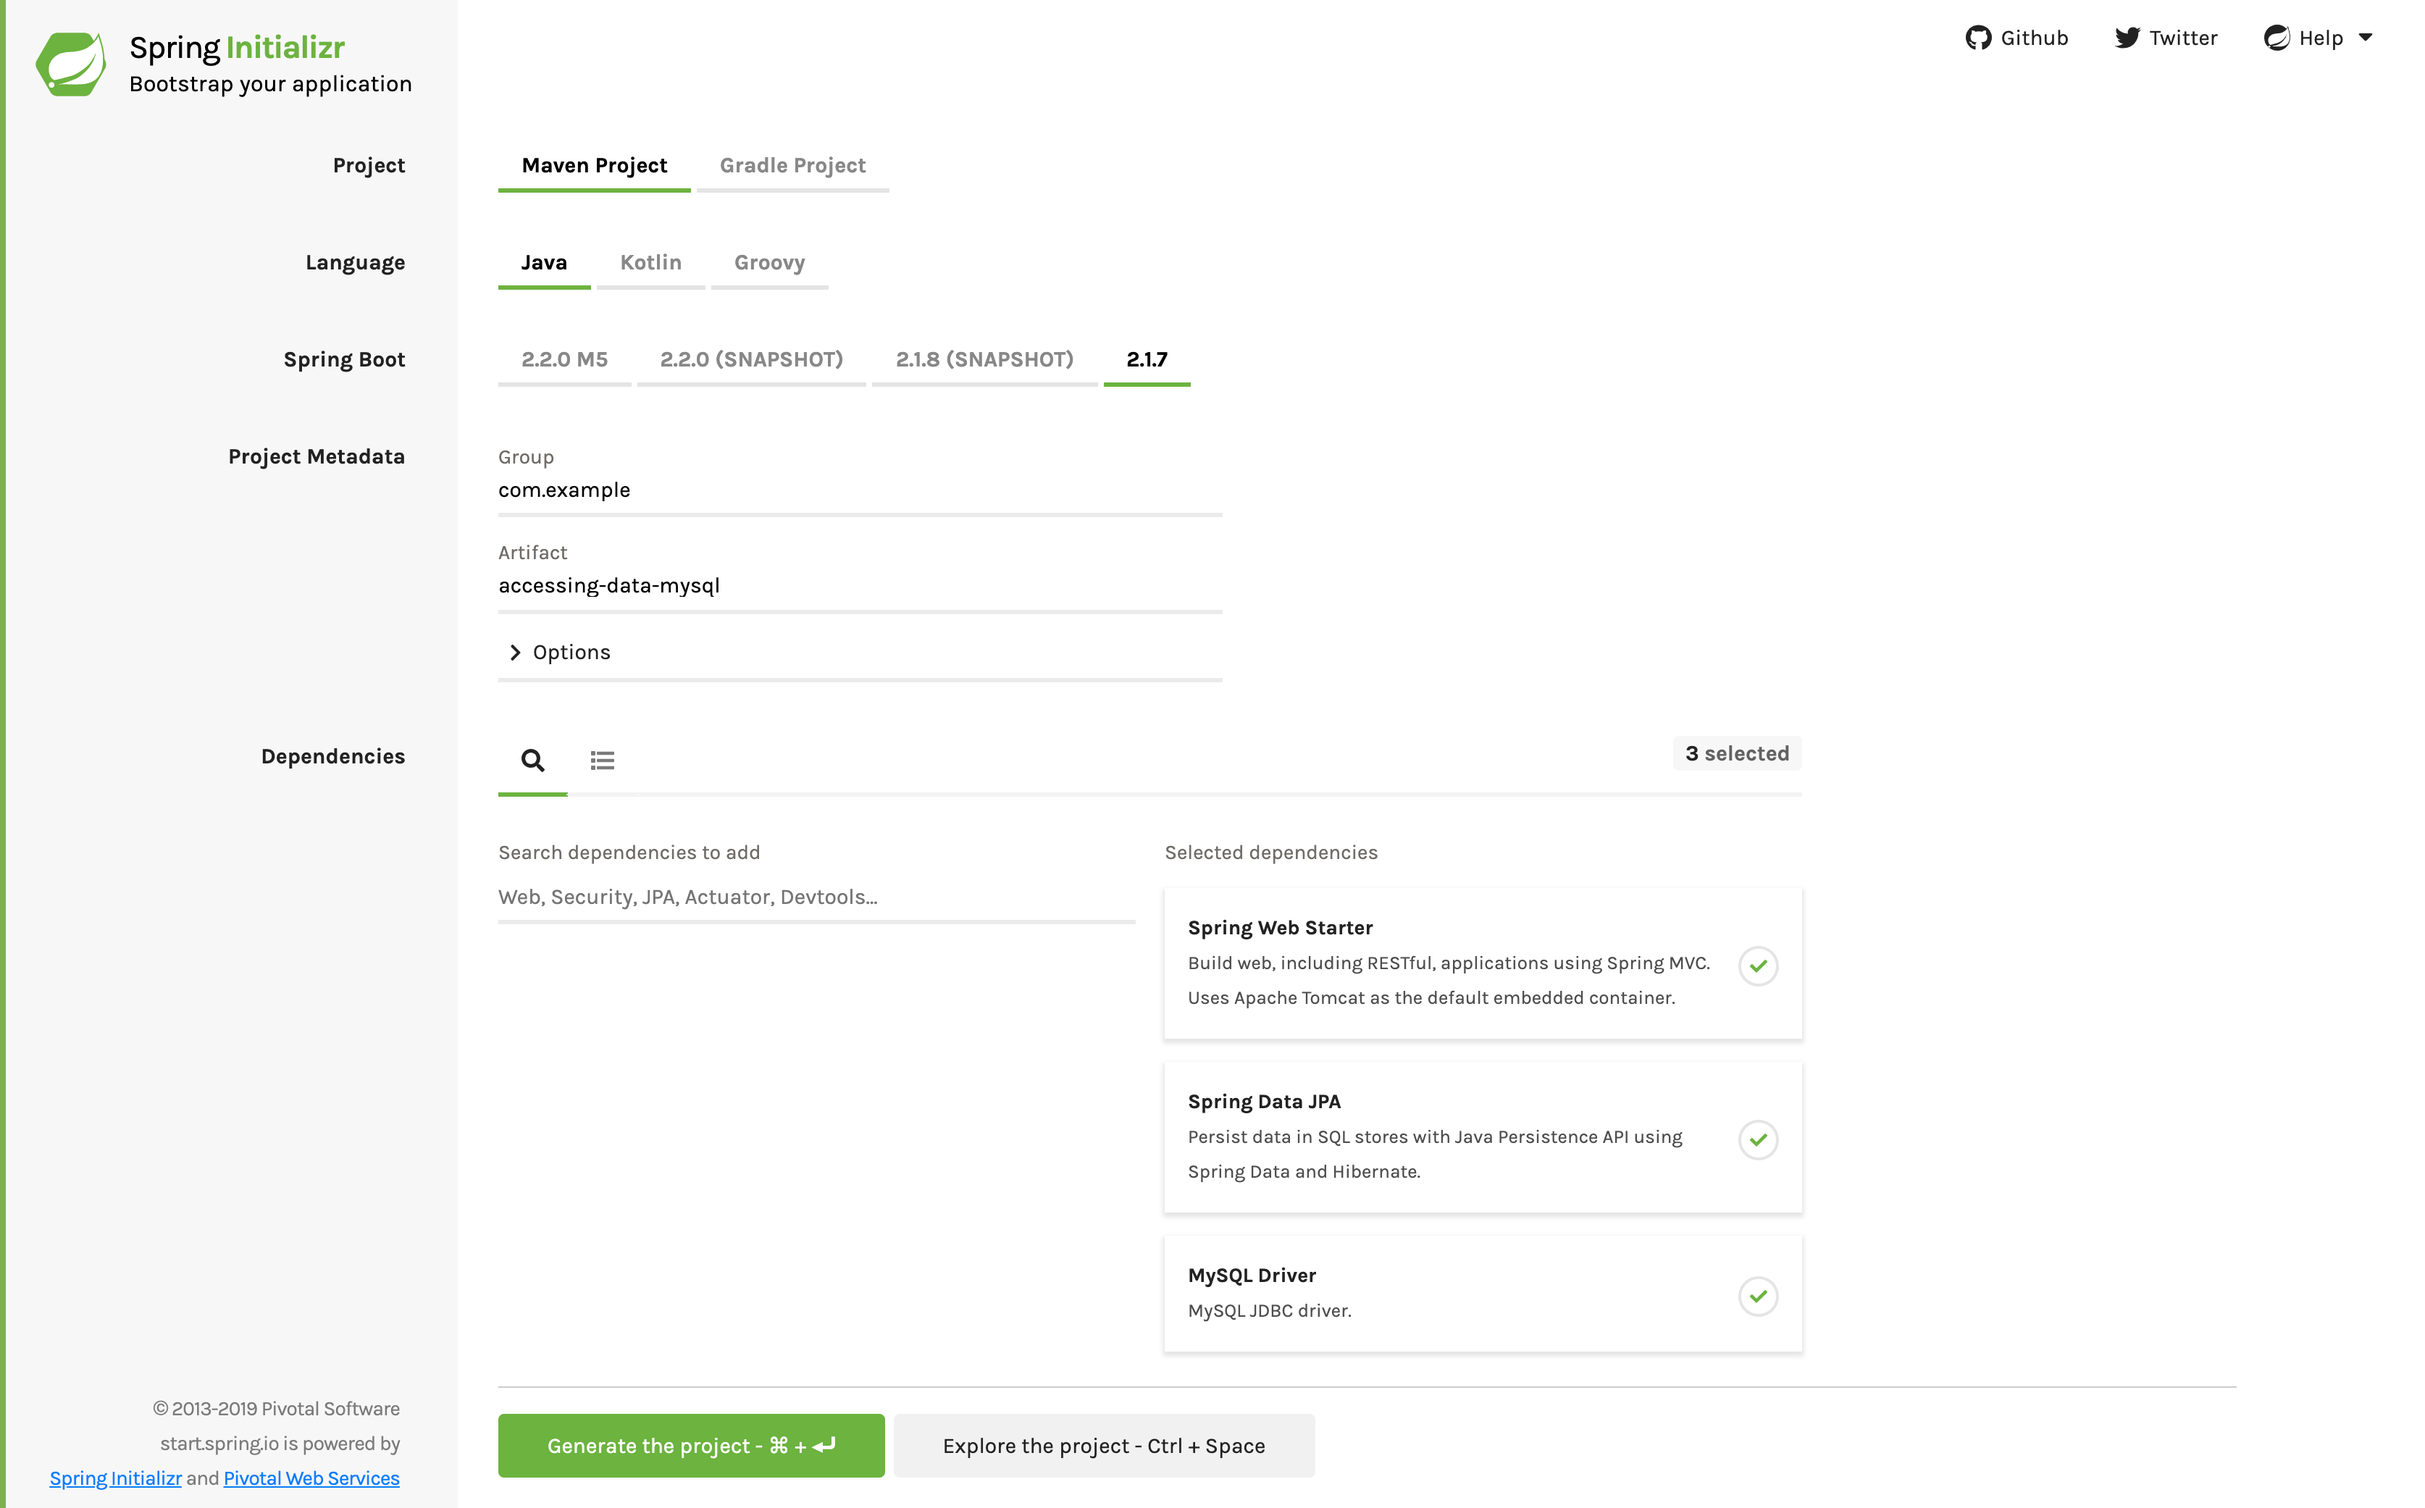
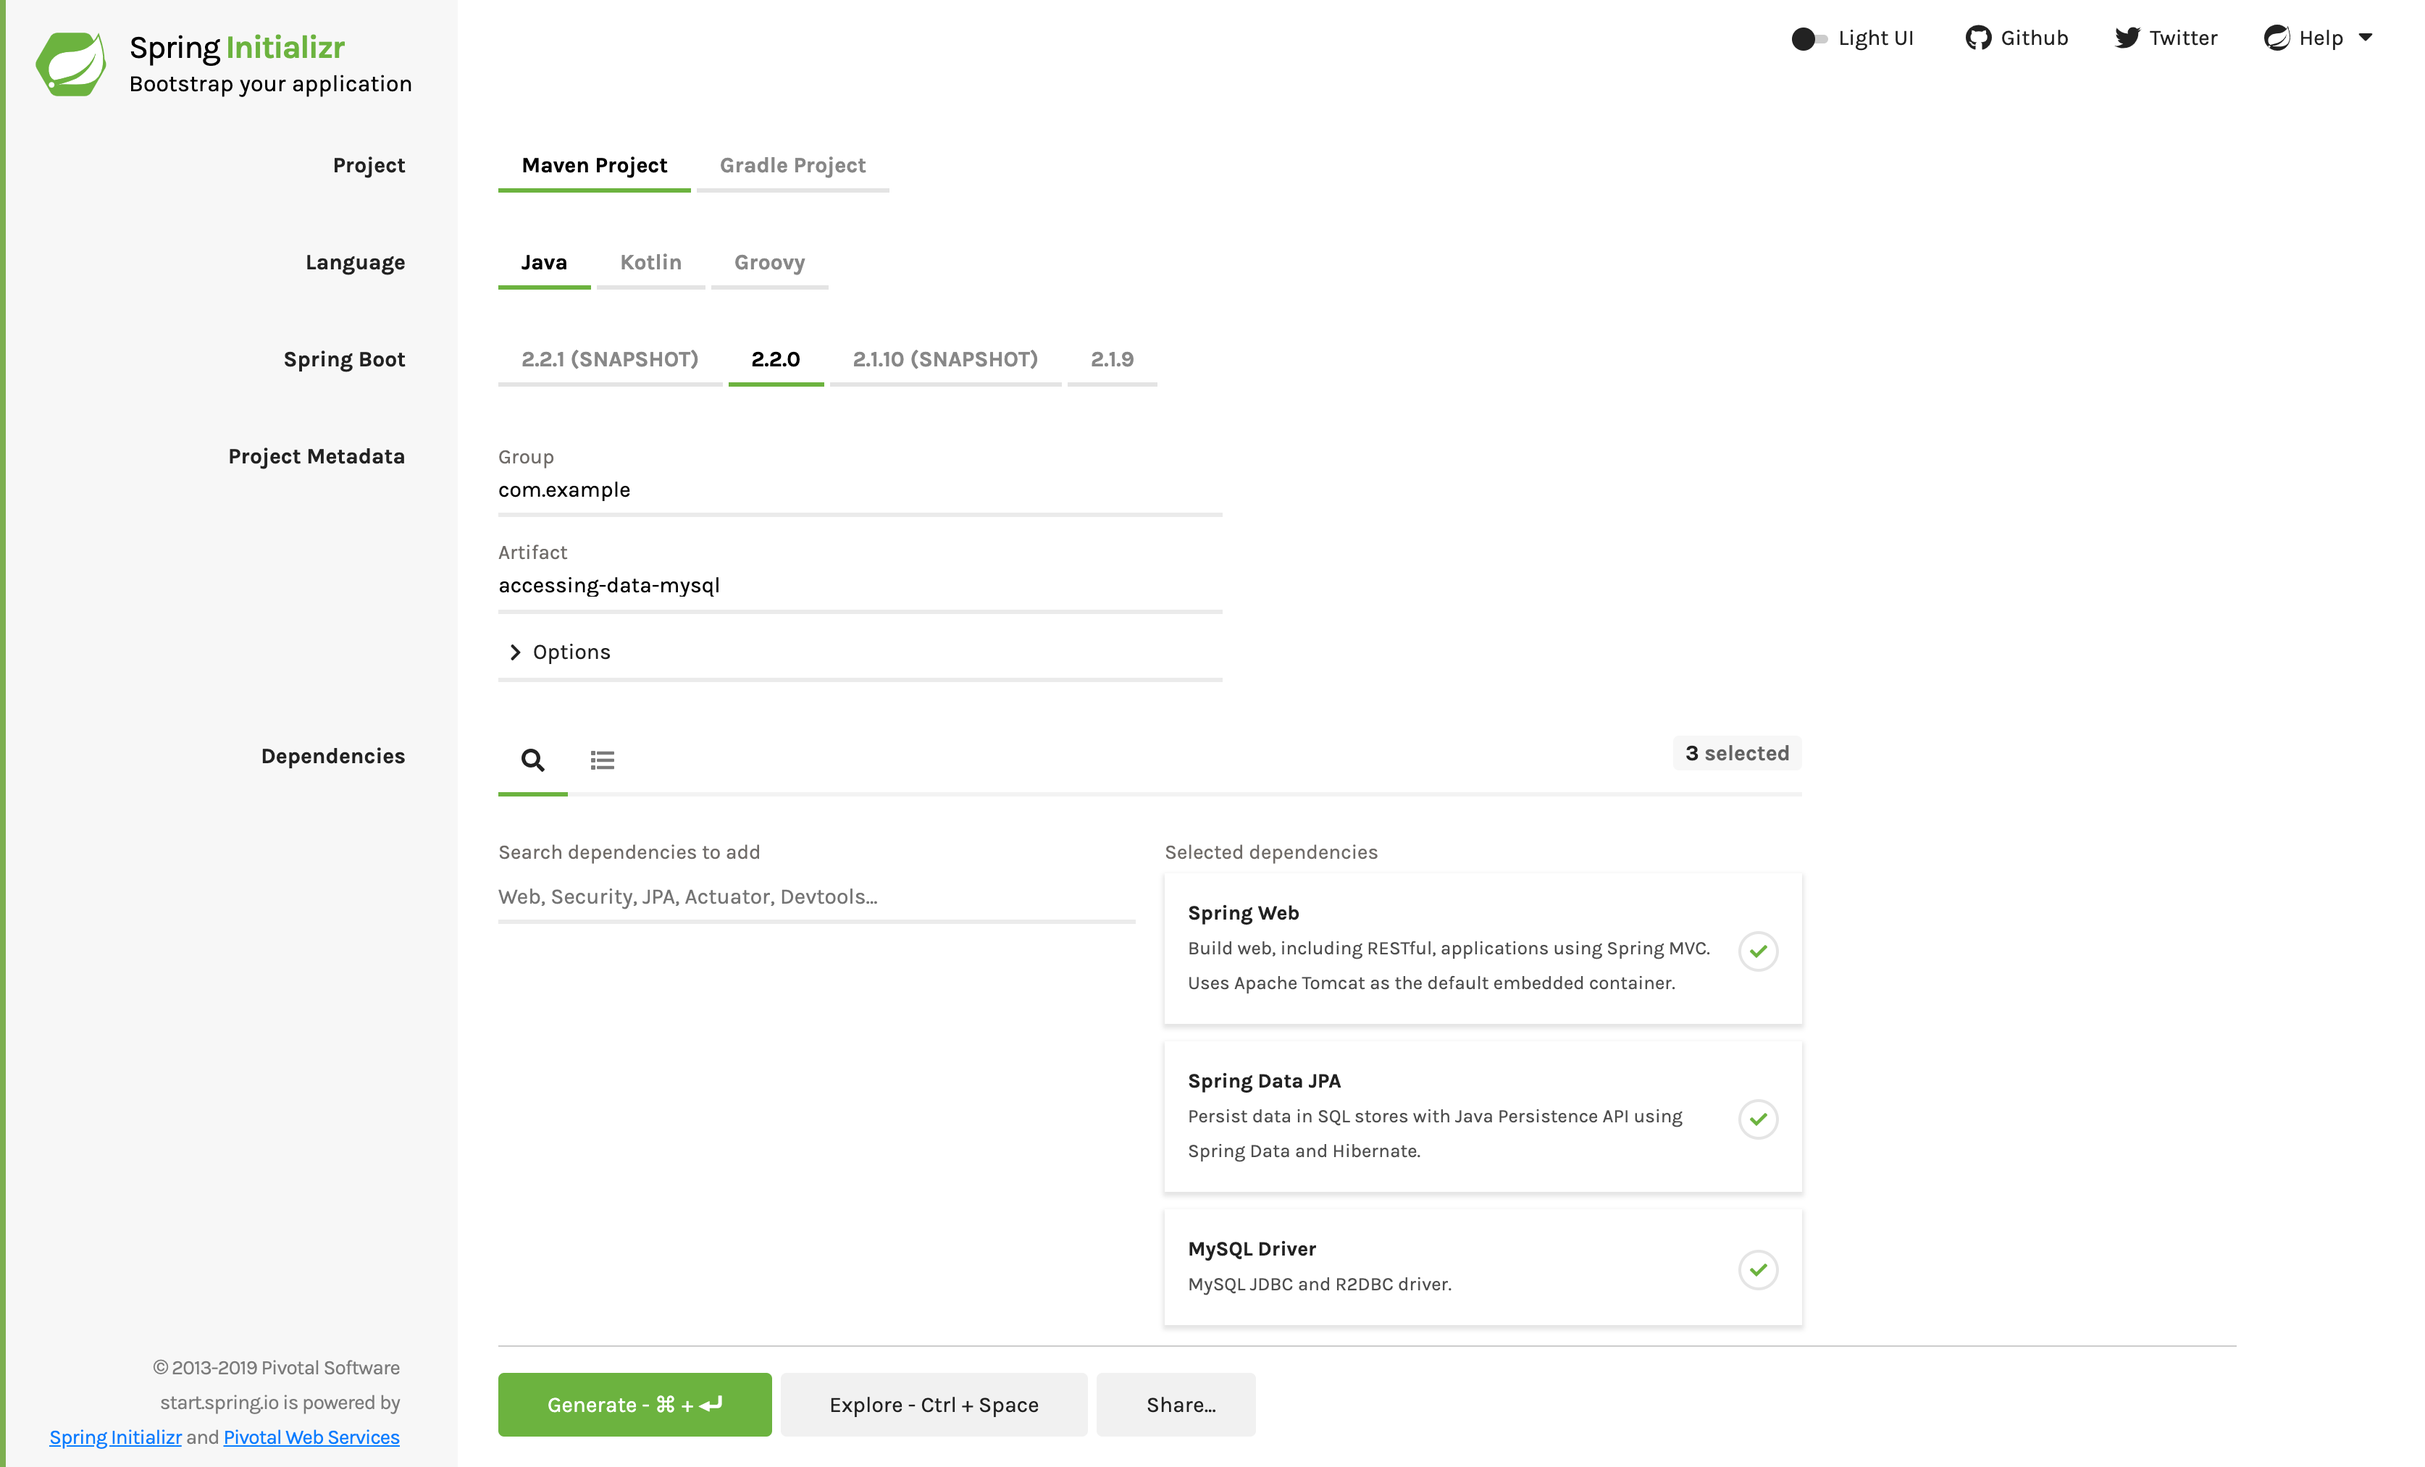
Upgrade to Spring Boot 2.2
I upgraded the build files to use Spring 2.2. Doing so necessitated upgrading the Gradle wrappers. Note that there are no tests in the /complete branch. I added the test from the Initializr in the /initial branch.

diff --git a/initial/src/test/java/com/example/accessingdatamysql/AccessingDataMysqlApplicationTests.java b/initial/src/test/java/com/example/accessingdatamysql/AccessingDataMysqlApplicationTests.java
@@ -1,0 +1,13 @@
+package com.example.accessingdatamysql;
+
+import org.junit.jupiter.api.Test;
+import org.springframework.boot.test.context.SpringBootTest;
+
+@SpringBootTest
+class AccessingDataMysqlApplicationTests {
+
+	@Test
+	void contextLoads() {
+	}
+
+}
